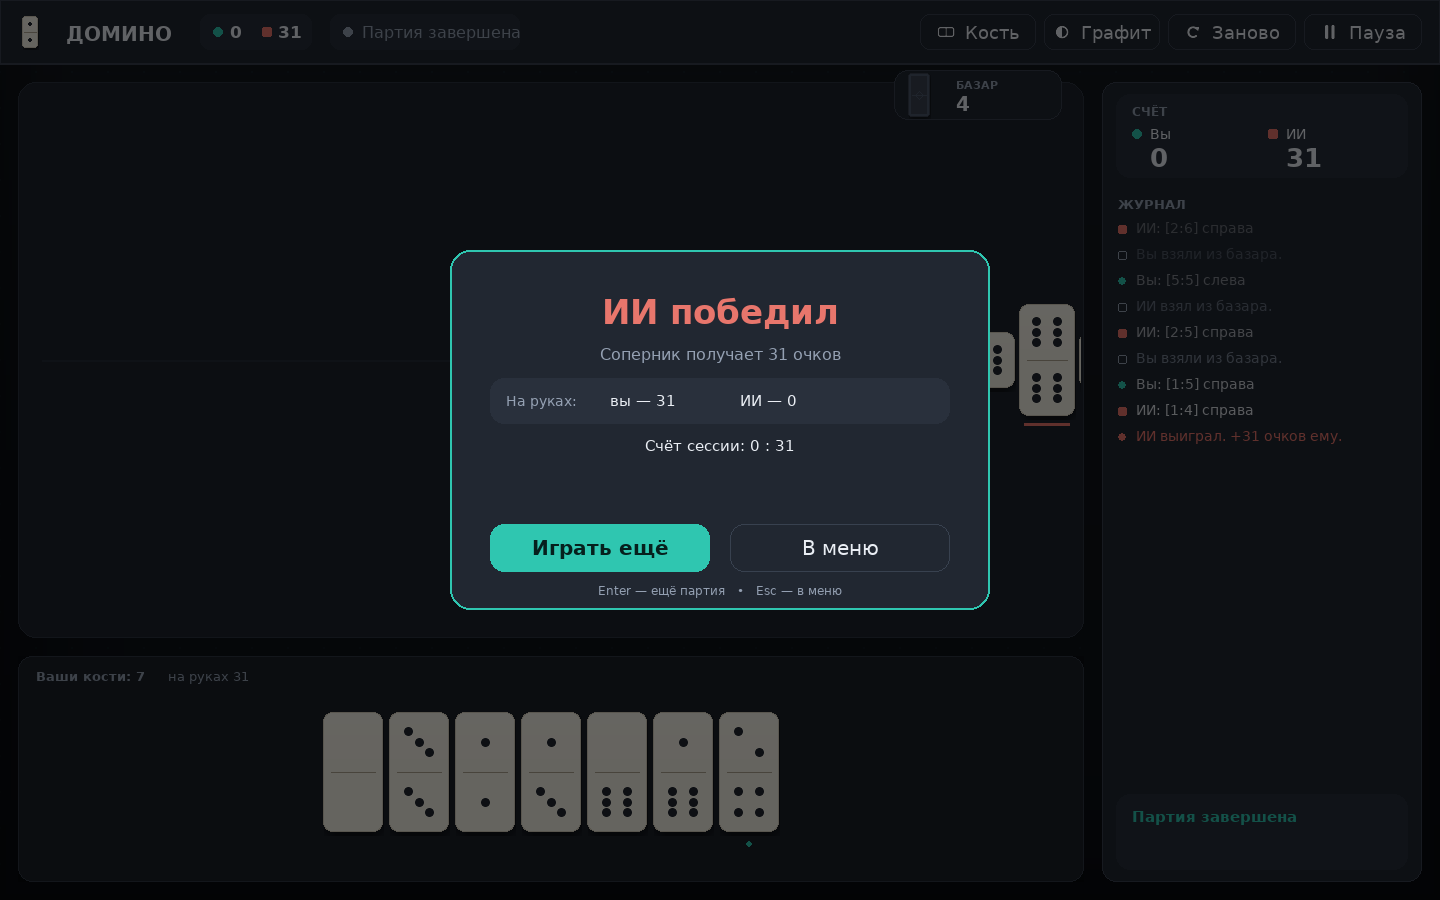
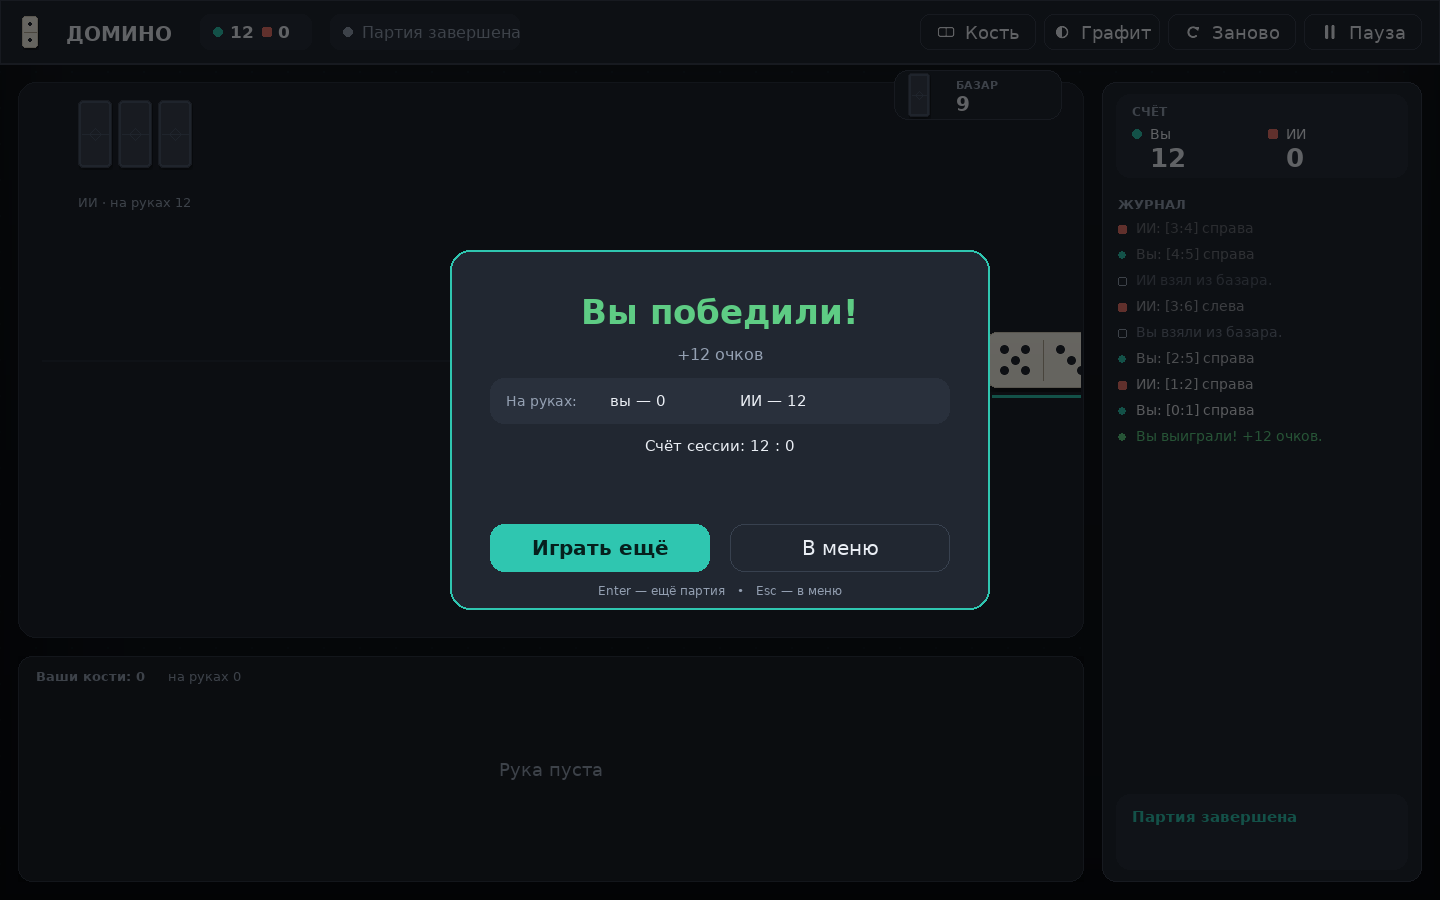
Снимки документации стали воспроизводимыми
Побочный баг, найденный при обновлении иконки: game.png и остальные снимки
менялись при каждом прогоне tools.docs, даже когда код не трогали. Причина —
GameScene создавал сессию с seed=random.randrange(1 << 30) без возможности
задать его снаружи, поэтому каждая отрисовка раздавала новую партию.

- GameScene принимает необязательный seed; без него поведение прежнее
  (случайная раздача в игре), с ним раздача воспроизводима;
- tools/screens.py передаёт фиксированный SCENE_SEED;
- выбран сид 12: цепочка на снимке помещается в поле с запасом, у игрока
  есть несколько ходов и видны подсказки концов. Прежний случайный сид давал
  обрезанную цепочку, вылезающую за края поля.

Тесты: 4 новых в tests/test_screens_reproducible.py — сцена с одним сидом
даёт одинаковую раздачу и побитово одинаковый кадр, разные сиды дают разные
раздачи, два прогона render_game пишут одинаковые файлы. На возвращённом
случайном сиде падают три теста.

diff --git a/tests/test_screens_reproducible.py b/tests/test_screens_reproducible.py
@@ -1,0 +1,78 @@
+"""Тесты воспроизводимости снимков документации."""
+
+from __future__ import annotations
+
+import hashlib
+import os
+
+os.environ.setdefault('SDL_VIDEODRIVER', 'dummy')
+
+import pygame as pg  # noqa: E402
+import pytest  # noqa: E402
+
+from domino.ui.app import App  # noqa: E402
+from domino.ui.scenes import GameScene  # noqa: E402
+
+
+@pytest.fixture(scope='module')
+def app():
+    pg.init()
+    application = App(headless=True)
+    yield application
+    pg.quit()
+
+
+def _digest(surface: pg.Surface) -> str:
+    return hashlib.md5(pg.image.tobytes(surface, 'RGB')).hexdigest()
+
+
+def test_game_scene_accepts_seed(app):
+    """Сцена должна принимать сид: иначе снимки каждый раз разные."""
+    first = GameScene(app, seed=12)
+    second = GameScene(app, seed=12)
+    assert first.session.state.hands == second.session.state.hands
+    assert first.session.state.chain == second.session.state.chain
+
+
+def test_different_seeds_give_different_deals(app):
+    """Сид действительно влияет на раздачу, а не игнорируется."""
+    deals = {
+        GameScene(app, seed=seed).session.state.hands
+        for seed in (1, 2, 3, 4, 5)
+    }
+    assert len(deals) == 5, 'разные сиды дают одинаковые раздачи'
+
+
+def test_scene_with_seed_draws_identically(app):
+    """Регрессия: снимки game.png менялись от прогона к прогону.
+
+    GameScene сеял random.randrange() без сида, поэтому каждая отрисовка
+    давала новую раздачу и файл скриншота «дрожал» в git.
+    """
+    first = GameScene(app, seed=12)
+    first.session.enable_ai = False
+    first.update(0.016)
+    first.draw(app.screen)
+    one = _digest(app.screen.copy())
+
+    second = GameScene(app, seed=12)
+    second.session.enable_ai = False
+    second.update(0.016)
+    second.draw(app.screen)
+    two = _digest(app.screen.copy())
+
+    assert one == two, 'сцена с одним сидом рисуется по-разному'
+
+
+def test_docs_screenshots_are_reproducible(app, tmp_path):
+    """Два прогона tools.docs должны давать побайтово одинаковые снимки."""
+    from tools.screens import render_game
+
+    first = tmp_path / 'first.png'
+    second = tmp_path / 'second.png'
+    render_game('flat_dark', str(first))
+    render_game('flat_dark', str(second))
+
+    assert first.read_bytes() == second.read_bytes(), (
+        'снимок игры не воспроизводится: git будет видеть ложные изменения'
+    )

diff --git a/tools/screens.py b/tools/screens.py
@@ -18,6 +18,9 @@ from domino.ui.app import App  # noqa: E402
 from domino.ui.theme import THEME_ORDER  # noqa: E402
 from domino.ui.tiles import SKIN_ORDER  # noqa: E402
 
+#: Сид раздачи для снимков: без него каждый прогон даёт другую картинку.
+SCENE_SEED = 12
+
 
 def make_app(theme: str, tiles: str | None = None) -> App:
     return App(theme=theme, tiles=tiles, headless=True)
@@ -81,7 +84,7 @@ def render_game(theme: str, path: str, difficulty: str = 'medium', steps: int = 
     app = make_app(theme, tiles)
     app.ctx.difficulty = difficulty
     app.ctx.first_player = 0
-    scene = GameScene(app)
+    scene = GameScene(app, seed=SCENE_SEED)
     capture_chain(scene, steps, seed=7)
 
     scene.board.set_state(scene.session.state)
@@ -113,7 +116,7 @@ def render_result(theme: str, path: str, difficulty: str = 'medium',
 
     app = make_app(theme, tiles)
     app.ctx.difficulty = difficulty
-    scene = GameScene(app)
+    scene = GameScene(app, seed=SCENE_SEED)
     session = scene.session
     session.enable_ai = False
     rng = random.Random(3)

diff --git a/domino/ui/scenes.py b/domino/ui/scenes.py
@@ -216,13 +216,14 @@ class MenuScene(Scene):
 
 
 class GameScene(Scene):
-    def __init__(self, app) -> None:
+    def __init__(self, app, seed: int | None = None) -> None:
         super().__init__(app)
         self.session = GameSession(
             rules=settings.RULES,
             difficulty=self.ctx.difficulty,
             first_player=self.ctx.first_player,
-            seed=random.randrange(1 << 30),
+            # Сид нужен снимкам и тестам: иначе раздача каждый раз новая.
+            seed=random.randrange(1 << 30) if seed is None else seed,
         )
         self.session.scores = list(self.ctx.scores)
 
